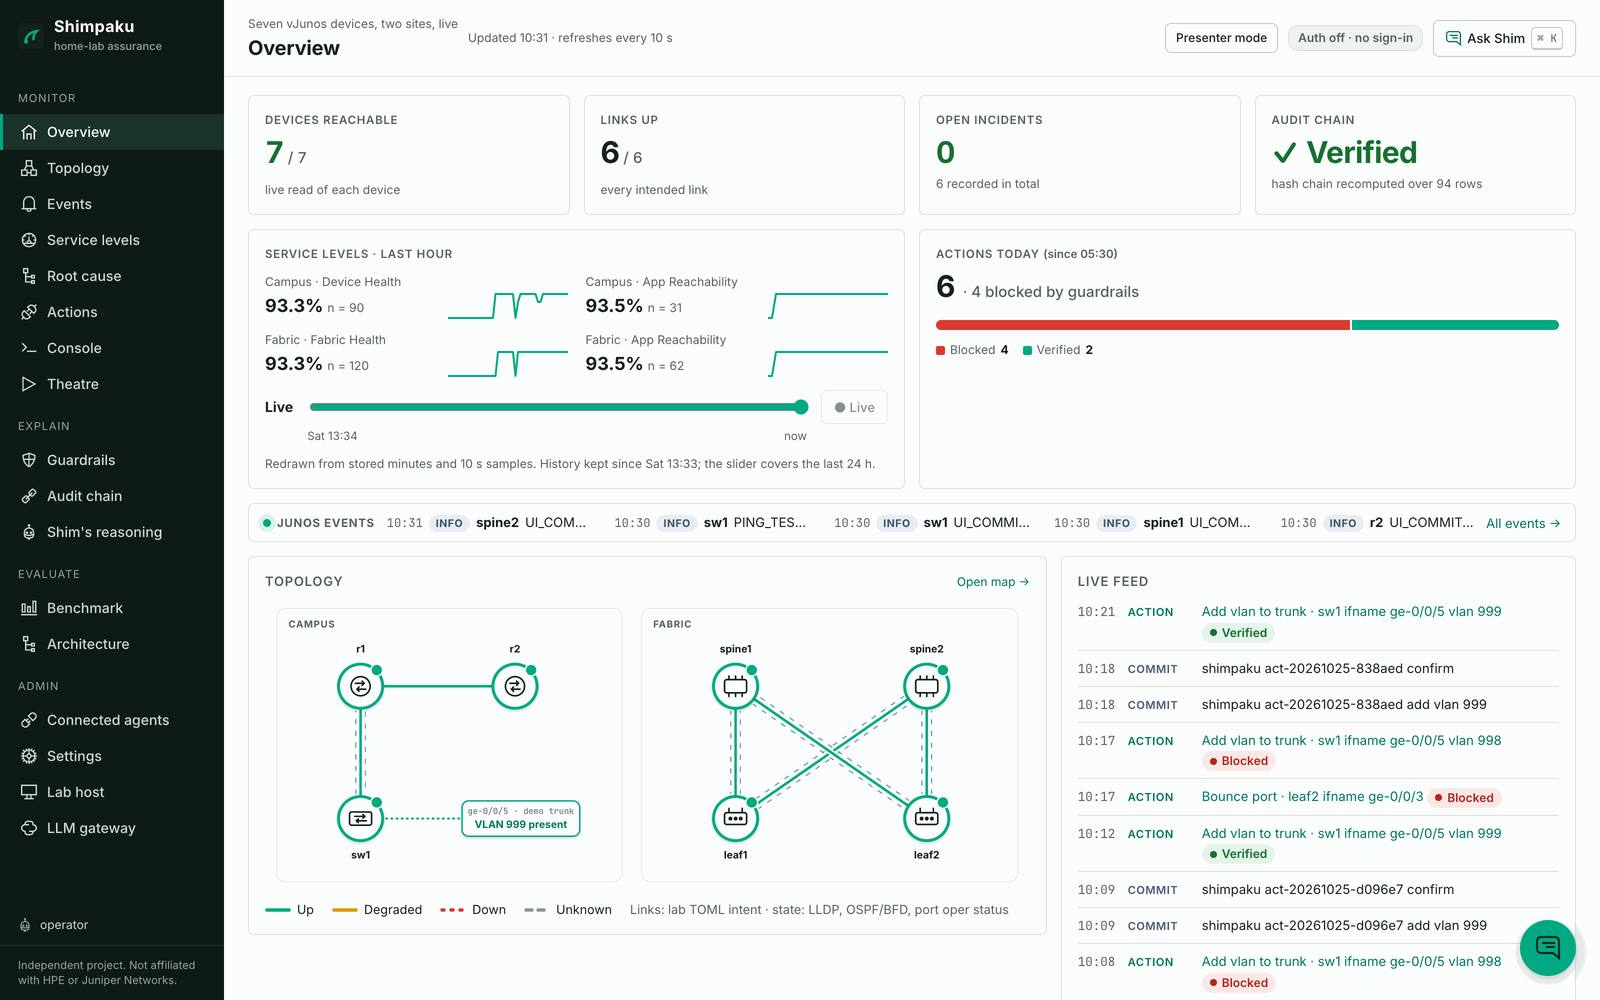
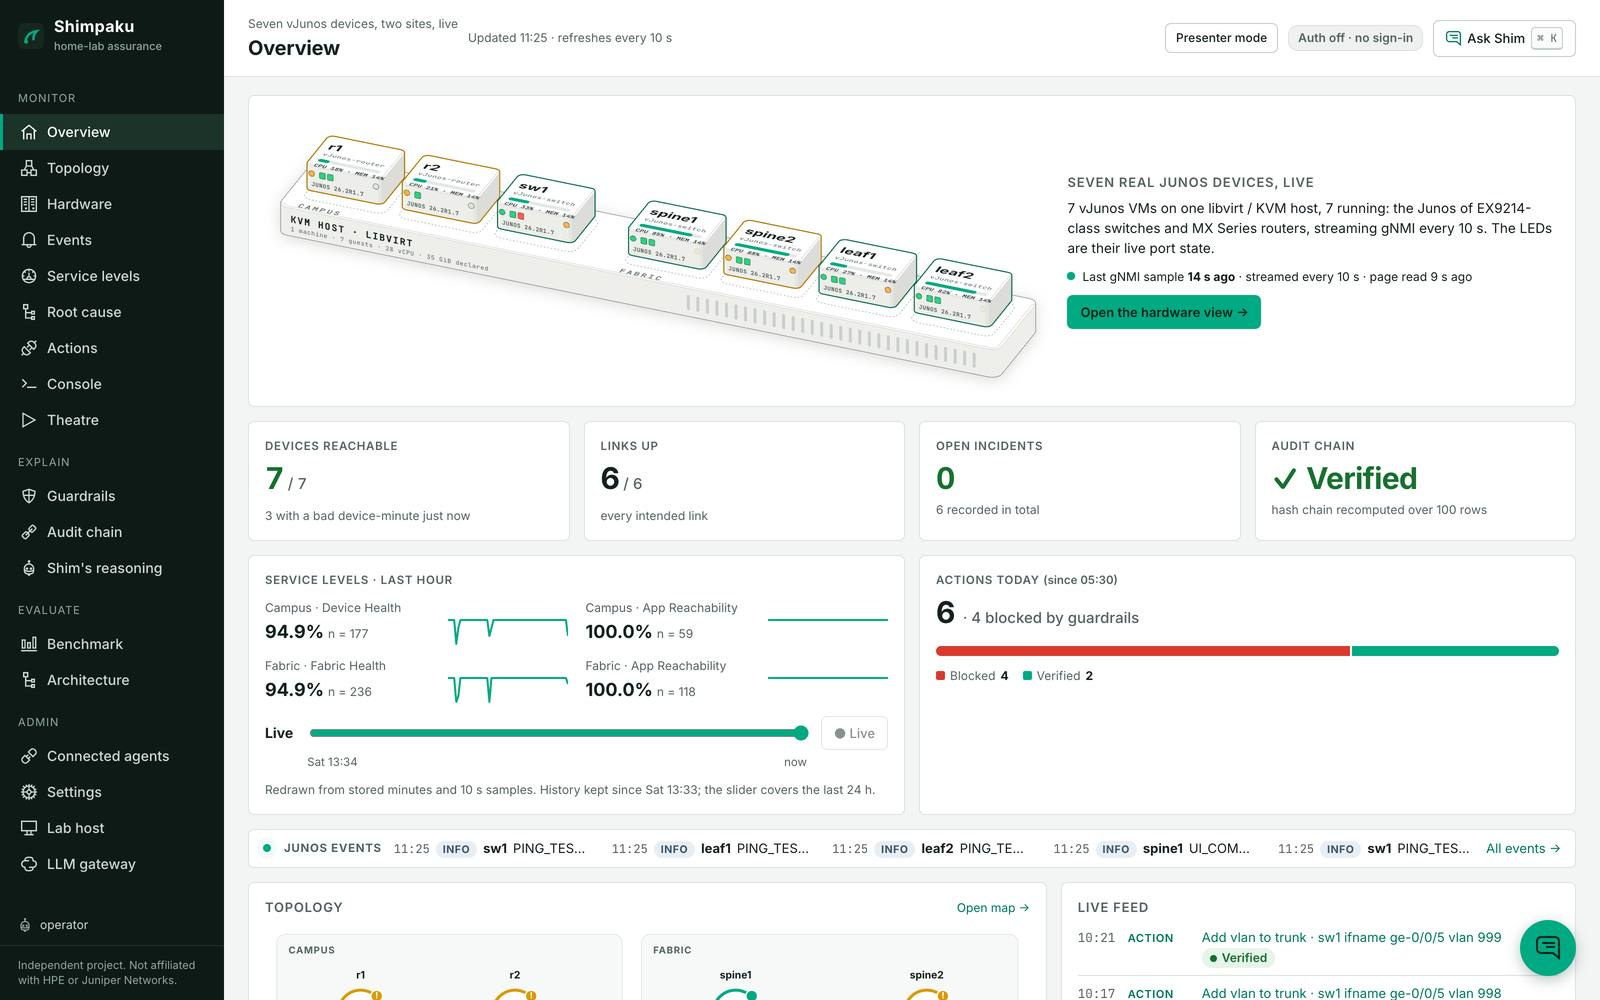
Screens: the hardware twin and the new Overview; hero refreshed; README leads with the hardware

diff --git a/README.md b/README.md
@@ -48,6 +48,9 @@ open http://127.0.0.1:8780             # the dashboard: Service levels → Root 
 
 Captured from the running system against the real vJunos lab: the numbers below are what the lab showed at capture time, not demo data.
 
+[![Hardware: seven Junos devices on one hypervisor](docs/screens/desktop/24-hardware-digital-twin.png)](docs/screens/desktop/24-hardware-digital-twin.png)
+**Hardware.** Seven vJunos guests on one libvirt/KVM host, each drawn with its live CPU, memory and Junos 26.2R1.7, and the real-world equivalent of each model as Juniper documents it (EX9214-class switch, MX Series router), with the caveats: lab use only, up to 100 Mbps, software forwarding.
+
 | | |
 |---|---|
 | [![Overview](docs/screens/desktop/01-overview.png)](docs/screens/desktop/01-overview.png)<br>**Overview.** 7 of 7 devices reachable, 6 of 6 links up, audit chain verified over 94 rows, and 6 actions today (4 blocked by guardrails, 2 verified). | [![Live topology](docs/screens/desktop/02-topology-live-traffic.png)](docs/screens/desktop/02-topology-live-traffic.png)<br>**Live topology.** Both sites with each link coloured by LLDP, OSPF and BFD state, and in/out rates from gNMI counters drawn on the links. |
